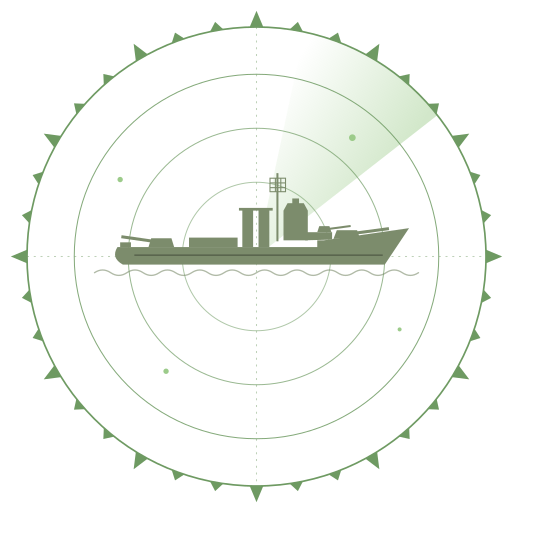
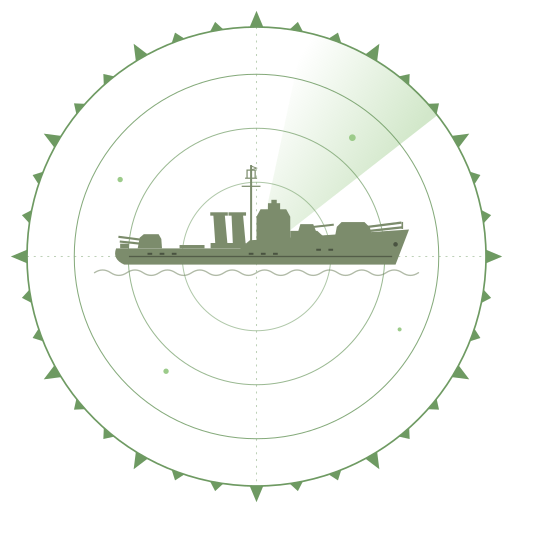
Redraw the Colonial vessels closer to the ships in the game
The destroyer gets its stubby hull with the raised forecastle, large
faceted turrets and two fat funnels; the submarine its pointed stern,
blunt bow, stepped tower, forward ramp and cargo hatch block.

Changed region(s): [[0.2074, 0.2963, 0.7704, 0.5037]]

diff --git a/src/main/kotlin/io/github/haasfynn/navy/progress/Vessel.kt b/src/main/kotlin/io/github/haasfynn/navy/progress/Vessel.kt
@@ -49,38 +49,55 @@ internal class Vessel(val shape: Path2D, val waterline: Double) {
             lineTo(14.2, 2.4); closePath()
         }, waterline = 4.4)
 
-        /** Colonial destroyer: raised bow, boxy turrets, a block bridge and two slim upright funnels. */
+        /**
+         * Colonial destroyer: stubby hull with a raised forecastle, large faceted turrets, an angular
+         * bridge with the mast right behind it and two fat funnels.
+         */
         val DESTROYER = Vessel(Path2D.Double().apply {
-            // hull with a rounded stern and a bow that sweeps up
-            moveTo(0.6, 6.4); quadTo(0.0, 8.6, 1.6, 10.0); lineTo(22.6, 10.0); lineTo(26.0, 4.4)
-            lineTo(20.2, 5.6); lineTo(20.2, 6.4); closePath()
-            // bridge with its angled top
-            moveTo(13.6, 6.4); lineTo(13.6, 2.6); lineTo(14.2, 1.8); lineTo(15.6, 1.8); lineTo(16.2, 2.6)
-            lineTo(16.2, 6.4); closePath()
-            // pole mast with the radar frame
-            moveTo(12.4, 6.4); lineTo(12.4, 0.0); lineTo(12.9, 0.0); lineTo(12.9, 6.4); closePath()
-            moveTo(11.6, 0.4); lineTo(13.7, 0.4); lineTo(13.7, 1.5); lineTo(11.6, 1.5); closePath()
-            // two funnels
-            moveTo(7.8, 6.4); lineTo(7.8, 2.2); lineTo(9.1, 2.2); lineTo(9.1, 6.4); closePath()
-            moveTo(10.0, 6.4); lineTo(10.0, 2.2); lineTo(11.3, 2.2); lineTo(11.3, 6.4); closePath()
-            // fore and aft turrets
-            moveTo(17.2, 5.9); lineTo(17.7, 4.4); lineTo(19.7, 4.4); lineTo(20.2, 5.6); closePath()
-            moveTo(2.8, 6.4); lineTo(3.3, 4.9); lineTo(5.5, 4.9); lineTo(6.0, 6.4); closePath()
+            // hull: rounded stern, step up to the forecastle, raked bow
+            moveTo(0.4, 6.6); quadTo(0.0, 8.8, 1.4, 10.0); lineTo(24.6, 10.0); lineTo(26.0, 4.6)
+            lineTo(12.2, 5.6); lineTo(11.2, 6.6); closePath()
+            // aft turret
+            moveTo(2.0, 6.6); lineTo(2.3, 5.2); lineTo(4.4, 5.2); lineTo(4.7, 6.6); closePath()
+            // two funnels with their caps
+            moveTo(8.4, 6.6); lineTo(8.2, 2.6); lineTo(8.0, 2.6); lineTo(8.0, 2.1); lineTo(9.9, 2.1)
+            lineTo(9.9, 2.6); lineTo(9.7, 2.6); lineTo(9.9, 6.6); closePath()
+            moveTo(10.2, 6.4); lineTo(10.0, 2.6); lineTo(9.8, 2.6); lineTo(9.8, 2.1); lineTo(11.7, 2.1)
+            lineTo(11.7, 2.6); lineTo(11.5, 2.6); lineTo(11.7, 6.0); closePath()
+            // mast
+            moveTo(12.2, 5.6); lineTo(12.2, 0.0); lineTo(12.7, 0.0); lineTo(12.7, 5.6); closePath()
+            moveTo(11.6, 1.0); lineTo(13.3, 1.0); lineTo(13.3, 1.4); lineTo(11.6, 1.4); closePath()
+            // bridge with the director on top
+            moveTo(13.0, 5.6); lineTo(13.0, 2.9); lineTo(13.5, 2.1); lineTo(15.7, 2.1); lineTo(16.2, 2.9)
+            lineTo(16.2, 5.4); closePath()
+            moveTo(14.1, 2.1); lineTo(14.1, 1.4); lineTo(15.1, 1.4); lineTo(15.1, 2.1); closePath()
+            // small turret on its platform, then the fore turret
+            moveTo(16.2, 5.4); lineTo(16.2, 4.3); lineTo(16.8, 4.3); lineTo(17.0, 3.6); lineTo(18.3, 3.6)
+            lineTo(18.5, 4.3); lineTo(19.2, 5.2); closePath()
+            moveTo(20.0, 5.1); lineTo(20.3, 3.5); lineTo(22.6, 3.5); lineTo(23.2, 4.9); closePath()
         }, waterline = 10.0)
 
-        /** Colonial submarine: long, slab-sided and sharp-edged, with a small box tower. */
+        /**
+         * Colonial submarine: long and slab-sided with a pointed stern and a blunt bow, a stepped
+         * box tower amidships, a ramp falling away forward of it and a cargo hatch block.
+         */
         val ANGULAR_SUBMARINE = Vessel(Path2D.Double().apply {
             // hull
-            moveTo(0.0, 7.6); lineTo(1.8, 5.4); lineTo(24.4, 5.4); lineTo(28.6, 7.6); lineTo(24.4, 10.0)
-            lineTo(1.8, 10.0); closePath()
-            // box tower
-            moveTo(12.4, 5.4); lineTo(12.7, 2.2); lineTo(15.9, 2.2); lineTo(16.4, 5.4); closePath()
-            // cargo hatch block and deck turret
-            moveTo(17.4, 5.4); lineTo(17.4, 4.5); lineTo(21.2, 4.5); lineTo(21.2, 5.4); closePath()
-            moveTo(22.0, 5.4); lineTo(22.3, 4.2); lineTo(23.8, 4.2); lineTo(24.1, 5.4); closePath()
+            moveTo(0.0, 7.4); lineTo(2.4, 5.8); lineTo(27.4, 5.8); lineTo(28.4, 5.3); lineTo(28.8, 7.4)
+            quadTo(28.4, 10.0, 27.0, 10.0); lineTo(2.2, 10.0); closePath()
+            // raised casing
+            moveTo(5.0, 5.8); lineTo(5.4, 5.2); lineTo(26.2, 5.2); lineTo(27.0, 5.8); closePath()
+            // stepped tower
+            moveTo(12.6, 5.2); lineTo(12.6, 3.6); lineTo(15.6, 3.6); lineTo(15.6, 5.2); closePath()
+            moveTo(13.0, 3.6); lineTo(13.0, 2.3); lineTo(14.8, 2.3); lineTo(14.8, 3.6); closePath()
             // periscopes
-            moveTo(13.5, 2.2); lineTo(13.5, 0.0); lineTo(14.0, 0.0); lineTo(14.0, 2.2); closePath()
-            moveTo(14.8, 2.2); lineTo(14.8, 0.7); lineTo(15.2, 0.7); lineTo(15.2, 2.2); closePath()
-        }, waterline = 4.6)
+            moveTo(13.2, 2.3); lineTo(13.2, 0.0); lineTo(13.6, 0.0); lineTo(13.6, 2.3); closePath()
+            moveTo(13.9, 2.3); lineTo(13.9, 0.6); lineTo(14.2, 0.6); lineTo(14.2, 2.3); closePath()
+            // ramp forward of the tower
+            moveTo(15.6, 4.0); lineTo(19.6, 5.2); lineTo(15.6, 5.2); closePath()
+            // cargo hatch block and the bow bulwark
+            moveTo(20.4, 5.2); lineTo(20.4, 4.4); lineTo(23.8, 4.4); lineTo(23.8, 5.2); closePath()
+            moveTo(24.4, 5.2); lineTo(24.6, 4.6); lineTo(26.8, 5.1); lineTo(27.0, 5.2); closePath()
+        }, waterline = 4.8)
     }
 }

diff --git a/scripts/draw-colonial-sonar.py b/scripts/draw-colonial-sonar.py
@@ -55,31 +55,46 @@ def sonar(ring, sweep, vessel, vessel_colour, paint):
 '''
 
 
-# Side views, bow to the right, waterline near y = 402.
-DESTROYER = '''    <path d="M394,376 Q384,392 402,402 H790 L826,348 L700,366 H690 V376 Z" stroke="none"/>
-    <path d="M500,376 V362 H572 V376 Z M672,366 V354 H712 V365 Z" stroke="none"/>
-    <path d="M640,366 V322 L646,311 H670 L676,322 V366 Z M653,311 V304 H663 V311 Z" stroke="none"/>
-    <path d="M579,376 V320 H595 V376 Z M603,376 V320 H619 V376 Z" stroke="none"/>
-    <path d="M576,320 H598 M600,320 H622" stroke-width="4" fill="none"/>
-    <path d="M714,364 L719,351 H749 L753,362 Z M690,354 L693,345 H708 L711,354 Z M440,376 L444,363 H474 L478,376 Z M398,376 V369 H414 V376 Z" stroke="none"/>
-    <path d="M749,355 L794,349 M444,367 L402,361" stroke-width="4.5" fill="none"/>
-    <path d="M708,349 L738,345" stroke-width="3" fill="none"/>
-    <path d="M631,366 V268" stroke-width="3" fill="none"/>
-    <path d="M620,274 H643 V294 H620 Z M620,281 H643 M620,288 H643 M628,274 V294 M636,274 V294" stroke-width="1.6" fill="none"/>
-    <path d="M420,388 H786" stroke="#00000055" stroke-width="2" fill="none"/>
+# Side views, bow to the right, waterline near y = 402. Proportions follow the vessels as they
+# appear in the game; the drawings themselves are original.
+DESTROYER = '''    <path d="M392,378 Q386,394 404,402 H806 L826,350 L590,366 L576,378 Z" stroke="none"/>
+    <path d="M398,378 V371 H411 V378 Z M486,378 V373 H523 V378 Z" stroke="none"/>
+    <path d="M424,378 L427,362 L433,357 H455 L459,364 L460,378 Z" stroke="none"/>
+    <path d="M428,365 L397,361 M428,371 L399,368" stroke-width="3.2" fill="none"/>
+    <path d="M532,378 V370 H584 V378 Z" stroke="none"/>
+    <path d="M539,372 L536,328 H553 L557,372 Z M565,372 L563,328 H580 L584,372 Z" stroke="none"/>
+    <path d="M534,327 H555 M561,327 H582" stroke-width="5" fill="none"/>
+    <path d="M592,367 V256" stroke-width="3" fill="none"/>
+    <path d="M579,286 H605 M584,274 H600 M586,262 H598 M586,262 V274 M598,262 V274" stroke-width="1.8" fill="none"/>
+    <path d="M592,256 L600,259 L592,262" stroke-width="1.4" fill="none"/>
+    <path d="M600,366 V331 L606,320 H644 L650,331 V365 Z M617,320 V311 H635 V320 Z M622,311 V306 H630 V311 Z" stroke="none"/>
+    <path d="M650,365 V352 H690 L701,362 Z M662,352 L665,342 H684 L688,352 Z" stroke="none"/>
+    <path d="M686,346 L713,343" stroke-width="3" fill="none"/>
+    <path d="M716,362 L719,346 L726,339 H760 L768,347 L771,359 Z" stroke="none"/>
+    <path d="M766,346 L813,340 M768,352 L814,347" stroke-width="3.4" fill="none"/>
+    <path d="M816,348 V340" stroke-width="2.4" fill="none"/>
+    <path d="M412,390 H800" stroke="#00000055" stroke-width="2" fill="none"/>
+    <path d="M440,386 h4 m14,0 h4 m14,0 h4 m110,0 h4 m14,0 h4 m14,0 h4 m60,-6 h4 m14,0 h4" stroke="#00000066" stroke-width="3" fill="none"/>
+    <circle cx="806" cy="372" r="3.4" fill="#00000066" stroke="none"/>
     <path d="M360,414 q12,-8 24,0 t24,0 t24,0 t24,0 t24,0 t24,0 t24,0 t24,0 t24,0 t24,0 t24,0 t24,0 t24,0 t24,0 t24,0 t24,0 t24,0 t24,0 t24,0 t24,0" stroke-width="2" fill="none" opacity="0.6" stroke-linecap="round"/>'''
 
-SUBMARINE = '''    <path d="M372,393 L394,381 H800 L834,393 L800,411 H394 Z" stroke="none"/>
-    <path d="M420,381 L428,373 H772 L780,381 Z" stroke="none"/>
-    <path d="M604,373 L607,344 H640 L645,373 Z" stroke="none"/>
-    <path d="M660,373 V364 H730 V373 Z M738,373 L741,361 H764 L767,373 Z" stroke="none"/>
-    <path d="M764,365 L800,361" stroke-width="4.5" fill="none"/>
-    <path d="M617,344 V310 M627,344 V319 M635,344 V326" stroke-width="2.6" fill="none"/>
-    <path d="M430,373 L621,312 L772,373" stroke-width="1.2" fill="none" opacity="0.7"/>
-    <path d="M384,388 L368,381 M384,399 L368,406" stroke-width="3.5" fill="none"/>
-    <path d="M684,364 V373 M707,364 V373" stroke="#00000055" stroke-width="1.6" fill="none"/>
-    <path d="M436,381 L452,373 H470 L454,381 Z M748,381 L764,373 H776 L782,381 Z" fill="PAINT" stroke="none" opacity="0.75"/>
-    <path d="M440,395 H796" stroke="#00000055" stroke-width="2" fill="none"/>
+SUBMARINE = '''    <path d="M368,397 L402,385 H822 L838,379 L842,398 Q838,411 820,412 H400 Z" stroke="none"/>
+    <path d="M452,385 L458,377 H800 L812,385 Z" stroke="none"/>
+    <path d="M578,377 V357 H626 V377 Z M584,357 V341 H612 V357 Z" stroke="none"/>
+    <path d="M589,341 V305 M597,341 V313" stroke-width="3.2" fill="none"/>
+    <path d="M586,305 H592" stroke-width="2.2" fill="none"/>
+    <path d="M626,361 L692,377 H626 Z" stroke="none"/>
+    <path d="M630,357 L686,371" stroke-width="2.2" fill="none"/>
+    <path d="M704,377 V365 H760 V377 Z" stroke="none"/>
+    <path d="M770,377 L773,368 L812,375 L816,377 Z" stroke="none"/>
+    <path d="M372,397 V372 M840,379 V362" stroke-width="1.6" fill="none"/>
+    <path d="M372,373 L588,306 L840,363" stroke-width="1" fill="none" opacity="0.65"/>
+    <path d="M722,365 V377 M741,365 V377" stroke="#00000055" stroke-width="1.6" fill="none"/>
+    <path d="M462,377 H514 L498,384 H456 Z M552,377 H574 V384 H546 Z M776,376 L806,376 L774,370 Z" fill="PAINT" stroke="none" opacity="0.8"/>
+    <path d="M750,391 H770 V397 H750 Z" fill="PAINT" stroke="none" opacity="0.55"/>
+    <ellipse cx="832" cy="404" rx="7" ry="4" fill="#00000044" stroke="none"/>
+    <path d="M420,397 H826" stroke="#00000055" stroke-width="2" fill="none"/>
+    <path d="M384,404 L366,410 M384,408 L370,418" stroke-width="3" fill="none"/>
     <path d="M360,352 q12,-8 24,0 t24,0 t24,0 t24,0 t24,0 t24,0 t24,0 t24,0 M680,352 q12,-8 24,0 t24,0 t24,0 t24,0 t24,0 t24,0 t24,0" stroke-width="2" fill="none" opacity="0.6" stroke-linecap="round"/>'''
 
 
